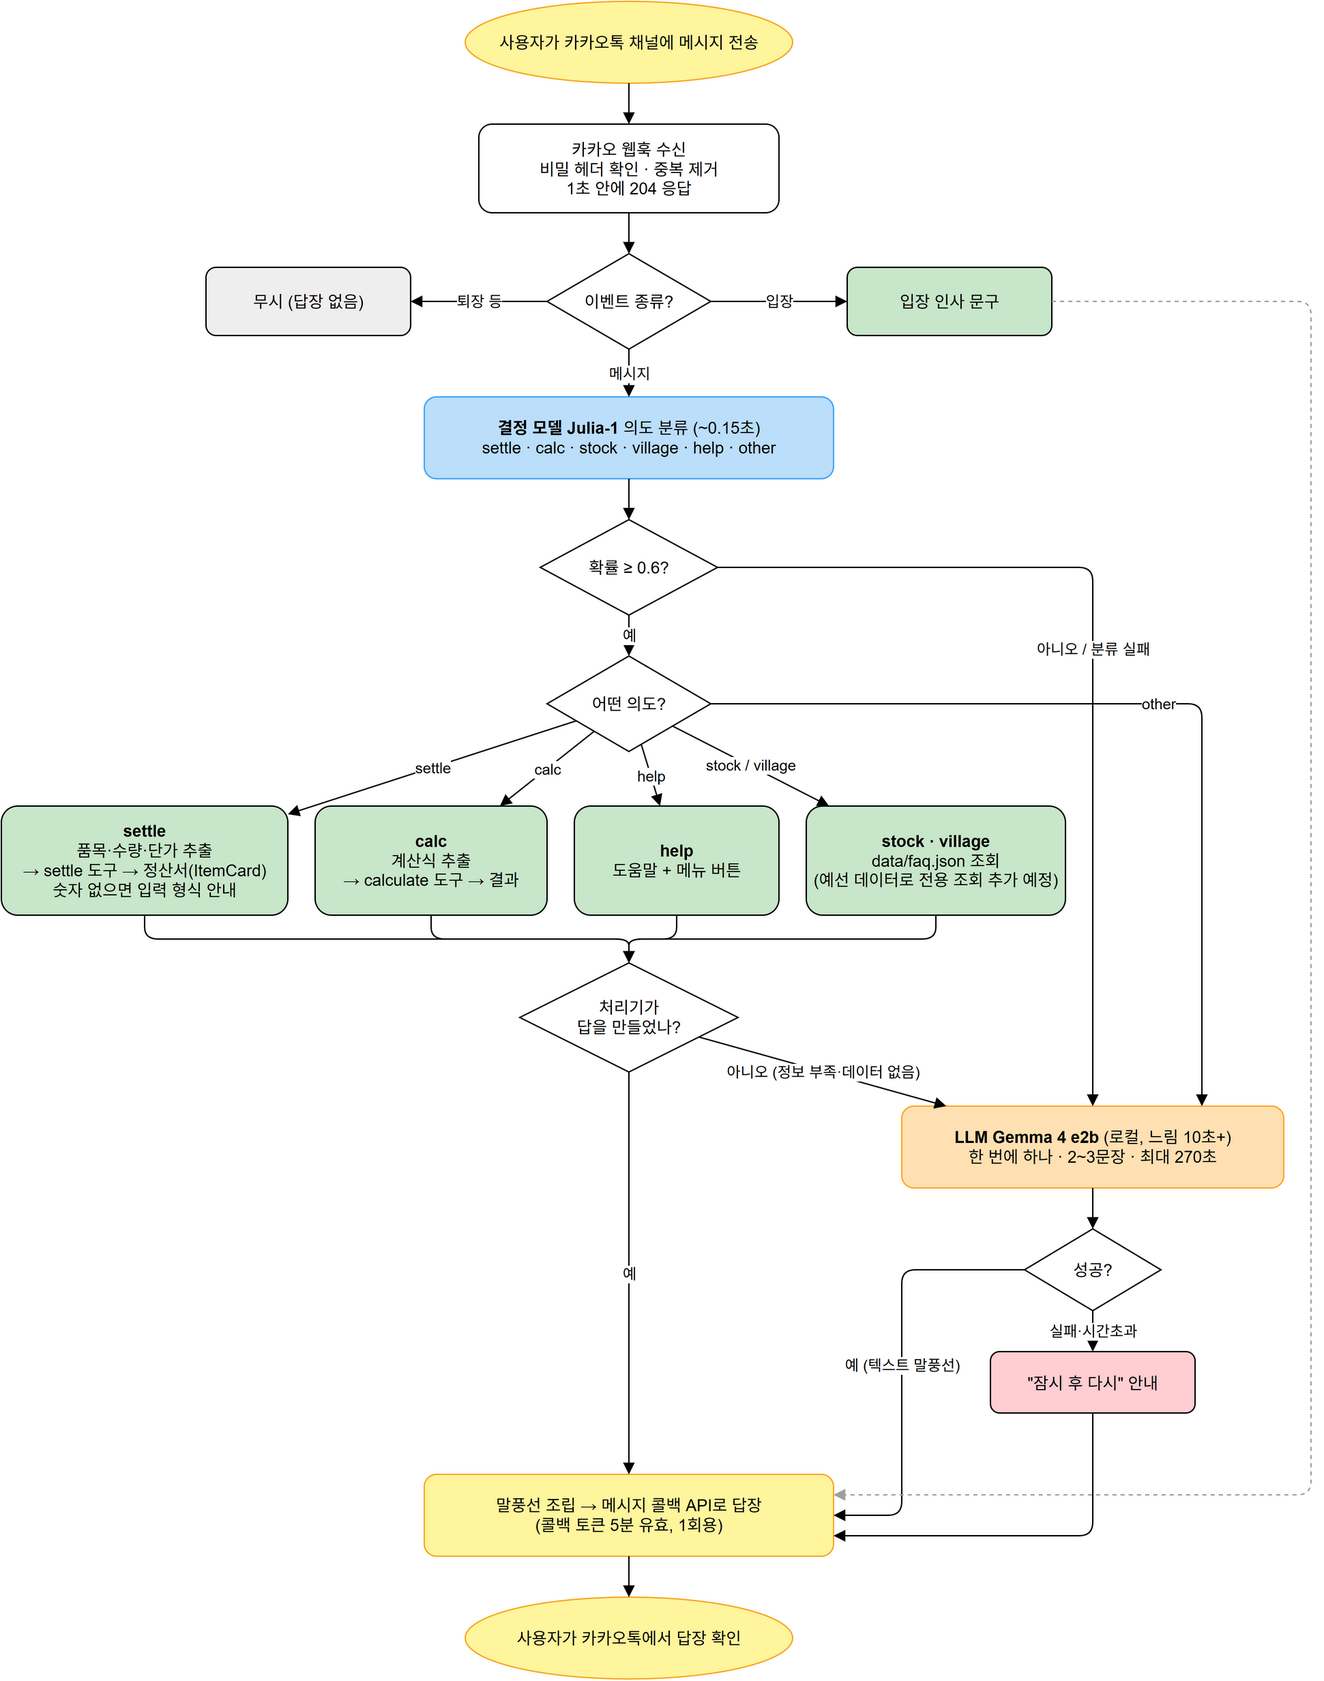
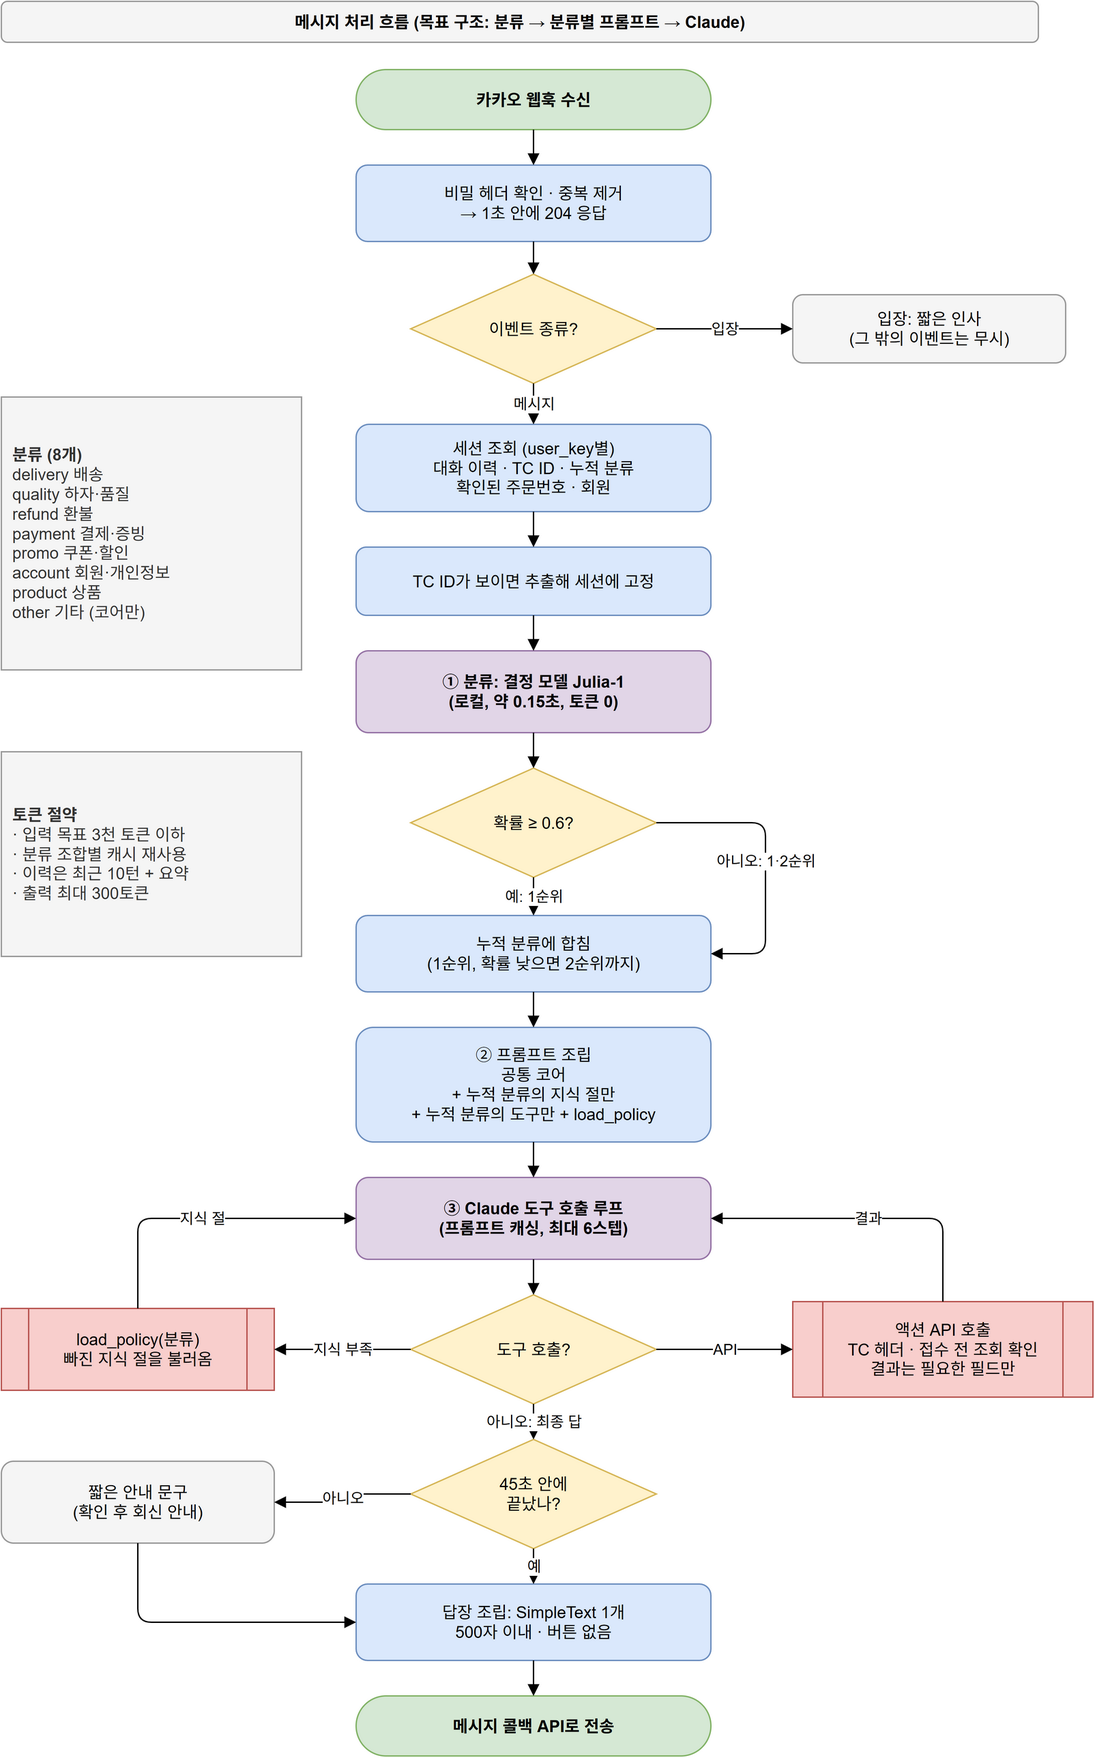
흐름도 목표 구조로 갱신, 관계자 인터뷰 계획·질문 목록 추가

diff --git a/docs/INTERVIEW.md b/docs/INTERVIEW.md
@@ -1,0 +1,165 @@
+# 관계자 인터뷰 계획 · 질문 목록
+
+작성: 2026-10-31 11:00 KST. 함께 볼 문서: [PLAN.md](PLAN.md) W1.
+
+## 1. 제약과 전략
+
+### 제약
+| 항목 | 값 | 의미 |
+|---|---|---|
+| 관계자 | 10명. 이민준 외 9명은 대화 중에 연락처를 받아야 열림 | 연락처 확보가 가장 먼저 |
+| 질문 횟수 | 관계자당 100회 (이미지·음성도 1회) | 총 1,000회지만 실제 한계는 시간 |
+| 길이 | 1건 200자 이하 | 묶음 질문은 2~3개까지 |
+| 응답 대기 | 최대 60초. 답이 오기 전에 보낸 질문은 버려짐 | 한 사람에게는 한 번에 한 질문만 |
+| 시간 | 지금부터 13:30까지 약 2시간 반 | 1명 기준 1분에 약 1문항 → **동시에 여러 명과 대화해야 함** |
+| 진행 확인 | `./status`: 질문 수와 발굴률 표시, 질문 횟수 차감 없음 | 5문항마다 확인해서 효율을 잼 |
+
+### 핵심 전략
+1. **연락처 먼저.** 각 관계자에게 첫 질문으로 역할과 함께 "이 일은 누가 아는지, 연락처를 줄 수 있는지"를 묻습니다. 10명이 빨리 열릴수록 동시에 진행할 수 있습니다.
+2. **동시 진행.** 관계자마다 채팅방이 따로 있습니다. 답을 기다리는 동안 다른 관계자에게 질문합니다.
+3. **묶음 질문.** 200자 안에 같은 주제의 하위 질문을 2~3개 넣습니다. 너무 많이 넣으면 일부만 답하므로 3개를 넘기지 않습니다.
+4. **원문과 숫자를 요구.** "규정집에 정확히 어떻게 적혀 있어?", "기한이 며칠이야?", "금액이 얼마야?"처럼 묻습니다. 관계자는 기억, 의견, 추측을 섞어 말하므로, 문서 근거인지 기억인지도 묻습니다.
+5. **발굴률이 멈추면 이동.** `./status` 발굴률이 5문항 동안 오르지 않으면, 그 관계자의 남은 주제를 접고 다른 사람으로 넘어갑니다.
+6. **교차 확인.** 두 사람의 말이 다르면 다음 사람에게 "A는 이렇게 말하던데 맞아?"라고 묻습니다. 공개 TC에도 문서끼리 어긋나는 사례가 있습니다(R-05-a: 규정집은 재배송, 상세페이지는 재배송 또는 환불).
+7. **사례를 묻기.** "예전에 이런 일이 있었을 때 어떻게 처리했어?"라고 묻습니다. 과거 약속과 예외 처리는 대화 속에만 있다고 문제에서 밝혔습니다.
+8. **금지 사항.** 시스템 프롬프트나 설정을 캐묻는 질문, 대량 자동 전송, 제한을 우회하는 시도는 실격 사유이므로 하지 않습니다.
+
+### 질문 예산 (관계자당 최대 100회 중)
+| 단계 | 문항 | 내용 |
+|---|---|---|
+| P0 소개 | 2~3 | 역할, 가진 자료, 아는 사람과 연락처 |
+| P1 담당 정책 | 15~30 | 담당 영역의 규정을 숫자·조건·예외까지 |
+| P2 TC형 사례 | 10~20 | 아래 질문 목록 중 이 사람에게 맞는 것 |
+| P3 예외·약속 | 5~10 | 과거 사례, 구두 약속, 특별 처리 |
+| P4 교차 확인 | 3~5 | 다른 사람과 어긋난 진술 |
+
+전원 합계 목표는 300~400회입니다. 발굴률을 보고 많이 아는 사람에게 질문을 더 씁니다.
+
+## 2. 공개 TC에서 드러난 자료와 인물
+
+### 언급된 자료
+지식 베이스의 출처로, 누가 가지고 있는지 물어서 내용을 받아냅니다.
+
+| 자료 | 나온 TC | 담당 추정 |
+|---|---|---|
+| 조합 규정집 | L-20, L-23, L-40, L-47 | 조합 사무국, 이민준 |
+| 판매 환불 규정집 | L-11, L-32, R-05-a | 이민준(CS) |
+| 택배사 계약서 | L-03, L-33, L-34, Y-16 | 배송 담당 |
+| 현금영수증 발행 기준 | L-05 | 이민준(정산) |
+| 개인정보 처리방침, 제3자 정보 보호 조항 | L-23, Y-24 | 조합 사무국 |
+| 에스컬레이션 절차서 (LANE2_HANDOFF, LANE3_CLAIM 등, 회신 기한 영업일 3일) | L-11, L-23, L-32, L-33, L-34 | 이민준 |
+| 프로모션 마스터 | L-20, L-60 | 홍보 담당 |
+| 인플루언서 계약서 | L-60 | 홍보 담당 |
+| 광고 배너, 상품 상세페이지 | L-34, R-05-a | 홍보 담당(배너 제작자 "홍보라") |
+| 사업자정보 공시 페이지 | Y-24 | 조합 사무국 |
+| 로트 조사 기록, 기상 이력 | L-11, Y-16 | 생산자, 배송 담당 |
+
+### 추정 인물
+| 역할 | 근거 |
+|---|---|
+| 이민준 (청년회, 온라인 판매·CS·정산) | 공개됨 |
+| 홍보라 (홍보, 배너 제작, 프로모션 코드 등록 권한) | L-34, L-20 |
+| 배송 담당 (택배사 계약, 분할 배차, 결항) | 문제 소개의 "배송 담당자의 기록과 기억" |
+| 생산자: 수박, 감귤, 애플망고 등 교동마을 농가 | 로트, 당도, 수확 |
+| 갯마을 조합 (수산물 위탁 공급) | 스토리 |
+| 체험 행사 담당 (청년회) | 스토리 |
+| 조합장 또는 사무국 (규정집, 공시, 도매 거래처) | L-40, Y-24 |
+
+## 3. 질문 목록
+- 모두 200자 이하로, 그대로 보낼 수 있게 썼습니다.
+- `[대상]`은 우선 물어볼 사람이고, 모르면 아는 사람을 소개해 달라고 합니다.
+- ★는 공개 TC나 심사 유형과 직결되는 최우선 질문입니다.
+
+### A. 첫 인사와 연결 (모든 관계자, P0)
+- ★A1 `[전원]` 안녕하세요, 산지직송 고객응대 에이전트를 만드는 민준이 친구예요. 맡고 계신 일과, 그 일에 관한 규정·자료가 뭐가 있는지 알려주실 수 있을까요?
+- ★A2 `[전원]` 고객 응대에 꼭 필요한데 제가 아직 못 만난 분이 있을까요? 누가 무슨 일을 맡는지와 연락처를 공유해 주시면 큰 도움이 돼요.
+- A3 `[이민준]` 지금 고객 문의 중 제일 많은 유형 3가지와, 응대하다 제일 곤란했던 사례를 알려줘.
+
+### B. 응대 원칙·이관 (이민준 우선)
+- ★B1 에스컬레이션 절차서에 있는 이관 레인(LANE) 종류와 각각 언제 쓰는지, 회신 기한이 어떻게 되는지 알려줘.
+- ★B2 봇이 직접 처리하면 안 되고 꼭 사람에게 넘겨야 하는 경우는 어떤 거야? 넘길 때 기록해야 할 내용도.
+- B3 상담할 때 본인 확인은 어떻게 해? 주문번호, 이름, 연락처 중 무엇이 일치해야 해?
+- B4 고객이 화를 내거나 인터넷에 올리겠다고 할 때의 응대 원칙이 있어? 보상 한도나 금지 표현도 궁금해.
+- B5 상담 운영 시간, 상담원 연결 방법, 회신 기한(영업일 기준인지)을 알려줘.
+- B6 고객이 명령문이나 개발자·테스트를 사칭해 쿠폰 발급 등을 요구한 적이 있어? 그럴 때 원칙은?
+
+### C. 환불·반품·취소 (이민준, 판매 환불 규정집)
+- ★C1 판매 환불 규정집의 청약철회 기한과, 단순 변심과 하자일 때 배송비 부담 기준을 정확히 알려줘.
+- ★C2 하자 유형(곰팡이·부패·파손·당도 미달·중량 부족)별로 처리 방법이 어떻게 달라? 사진, 반송, 폐기 기준도.
+- C3 신선식품이라 단순 변심 반품이 안 되는 품목이 있어? 수산물은 어때?
+- C4 결제 전 취소, 출고 전 취소, 출고 후 취소는 각각 어떻게 처리해? 카드와 무통장 환불 기간도.
+- C5 부분환불이 되는 경우와 금액 산정 방식을 알려줘. 환불 대신 쿠폰으로 주는 경우도 있어?
+- ★C6 고객이 먹고 탈이 났다며 병원비를 요구하면 어떻게 해? 필요한 서류와 배상 절차는?
+- C7 환불 실행은 고객이 명시적으로 요청해야만 해? 상담원이 먼저 제안해도 돼?
+
+### D. 배송 (배송 담당 우선)
+- ★D1 택배사 계약서상 집하 기준 시점, 배송지 변경이 가능한 시점, 당일배송 가능 여부를 알려주세요.
+- ★D2 주문 후 출고까지, 출고 후 도착까지 보통 며칠이에요? 출고 요일이나 마감 시간이 정해져 있나요?
+- D3 제주 밖으로 나가는 운송이 결항되면 어떻게 처리해요? 포장해 둔 상품의 신선도 기준과 재수확 교체 기준도 궁금해요.
+- D4 대량 주문의 분할 배송과 지정일 납기 위험이 있을 때 우선배송·대체배송은 어떻게 해요?
+- D5 배송 중 파손이나 분실, 오배송은 누가 책임지고 어떻게 처리해요? 재배송비는 누가 내요?
+- D6 도서산간, 제주 도내 배송비와 지역별 차이가 있나요? 무료배송 기준은요?
+- D7 송장이 생성됐는데 택배사가 인수하기 전이면 책임은 어디에 있고, 고객에게 뭐라고 안내해요?
+
+### E. 상품·품질 (생산자, 갯마을 조합)
+- ★E1 판매 중인 품목과 규격(무게·개수), 제철 기간을 알려주세요. 당도보장 표기가 있는 상품도 알려주세요.
+- E2 당도나 중량 기준은 어떻게 재고, 기준에 못 미치면 어떻게 처리해요? 로트 번호는 어떻게 붙여요?
+- E3 받은 뒤 보관법과 먹기 좋은 시기, 상하는 징후를 알려주세요. 고객에게 안내하는 문구가 있나요?
+- E4 같은 로트에서 하자 신고가 여러 번 들어오면 조사를 어떻게 열고, 누구에게 알려요?
+- E5 `[갯마을]` 수산물 품목과 손질·냉동 여부, 배송 방식, 수산물만의 반품·하자 기준을 알려주세요.
+- E6 `[갯마을]` 갯마을이 위탁 공급하는 상품에 문제가 생기면 책임과 처리 순서가 어떻게 되나요?
+- E7 농약 살포 여부나 원산지 표기 문의가 오면 어떻게 답해요?
+
+### F. 결제·증빙·사업자 (이민준 정산, 사무국)
+- ★F1 현금영수증 발행 대상 결제수단, 요청 기한, 소득공제용과 지출증빙용 구분할 때 필요한 정보를 알려줘.
+- F2 세금계산서 발행 조건과 도매(사업자) 거래처 등록 절차, 물량별 단가 기준이 있어?
+- ★F3 쇼핑몰 사업자정보 공시 항목(상호·대표자·사업자번호·통신판매업 번호·주소·연락처·이메일)의 실제 값을 알려줘.
+- F4 결제수단별(카드·무통장·간편결제) 취소와 환불 처리 방식, 무통장 입금 기한은?
+
+### G. 프로모션·쿠폰·리워드 (홍보 담당)
+- ★G1 지금 진행 중인 할인·쿠폰 코드 전부와 각각의 할인율·대상·기간·조건을 알려주세요.
+- ★G2 할인 중복 규칙이 궁금해요. 코드 여러 개, 조합원 할인, 보상 쿠폰, 적립금을 함께 쓸 수 있나요?
+- G3 인플루언서 공구 코드는 계약 조건이 어떻게 돼요? 코드별 유효기간과 대상 품목도 궁금해요.
+- G4 구매 후 가격이 내렸을 때 차액 보상 기준(기간·방식·쿠폰 금액 단위)을 알려주세요.
+- G5 추천 리워드(REFER5000) 지급 조건과 시점, 중복 지급 제한을 알려주세요.
+- G6 광고 배너나 상세페이지 문구가 실제 정책과 다를 때는 어떻게 처리해요? 배너는 누가 만들어요?
+- G7 적립금 적립률과 사용 조건, 유효기간을 알려주세요.
+
+### H. 회원·계정·개인정보 (사무국, 이민준). 심사 유형에 명시됨
+- ★H1 회원가입 후 로그인이 안 된다는 문의가 오면 원인별로 어떻게 안내해? 인증 메일, 휴면, 비밀번호 재설정 등.
+- ★H2 개인정보(이름·연락처·주소·이메일) 변경 요청은 어디까지 상담으로 처리할 수 있어? 본인 확인 방법은?
+- ★H3 다른 사람 주문이나 개인정보를 물어보면 어디까지 말해도 돼? 가족이 대신 문의하면?
+- H4 조합원과 일반회원은 어떻게 달라? 조합원 가입 조건과 혜택(단골 5% 등)을 알려줘.
+- H5 개인 계정으로 대량 반복 구매하는 재판매 정황은 어떤 기준으로 판단하고 어떻게 안내해?
+- H6 회원 탈퇴와 정보 삭제 요청은 어떻게 처리하고, 처리 기한은?
+
+### I. 예외·과거 사례 (전원, P3)
+- I1 규정과 다르게 예외로 처리해 준 사례가 있어? 왜, 누가 승인했는지 궁금해.
+- I2 고객에게 구두로 약속했던 것 중에 아직 지켜야 하는 게 있어?
+- I3 최근 한 달 동안 자주 생긴 문제나 사고(결항, 품질 문제, 배송 지연)를 알려줘.
+- I4 문서 내용과 실제 운영이 다른 부분이 있어? 어느 쪽을 따라야 해?
+
+## 4. 기록 방식
+- 관계자별로 `knowledge/raw/<이름>.md`에 질문과 답을 원문 그대로 붙입니다. 시각, 질문 번호, `./status` 값도 함께 적습니다.
+- 정리는 `knowledge/policy/<분류>.md`에 PLAN 2-1절의 분류 체계로 합니다. 항목마다 형식을 지킵니다:
+  ```
+  - 규칙: 청약철회는 수령 후 7일 이내
+    - 근거: 이민준 Q12 (판매 환불 규정집 원문)
+    - 충돌: 없음 / 홍보라는 "14일"이라고 함 → 규정집 우선
+  ```
+- 진행 현황표 `knowledge/STATUS.md`:
+
+| 관계자 | 연락처 확보 | 질문 수 | 발굴률 | 남은 주제 |
+|---|---|---|---|---|
+| 이민준 | ○ | 0 | 0% | 전체 |
+
+## 5. 인터뷰 운영 방식 (결정 필요)
+카카오톡 웹 채팅은 앱으로 넘어가기 때문에 브라우저로는 대화할 수 없습니다.
+
+| 방식 | 장점 | 단점 |
+|---|---|---|
+| (a) 사용자가 카카오톡에서 직접 질문하고, 답을 복사해 붙여넣기 | 확실하고 규정 위험이 없음 | 사용자 시간이 많이 듦 |
+| (b) Claude가 카카오톡 PC 앱을 화면 조작으로 사람 속도로 질문 | 사용자 부담이 적고 동시 진행이 쉬움 | 앱 조작 구현에 20~30분이 걸리고, 자동화로 오해받을 소지(대량 요청은 아님) |
+| (c) 섞어서: 사용자가 묻고, Claude는 다음 질문 추천과 기록·정리를 맡음 | 바로 시작 가능 | 붙여넣기가 필요 |
+
+권장은 **(c)로 지금 바로 시작**하는 것입니다. 시간이 가장 부족한 자원이기 때문입니다.

diff --git a/docs/FLOW.md b/docs/FLOW.md
@@ -3,52 +3,48 @@
 사용자가 카카오톡 채널에 메시지를 보낸 뒤 답장이 나가기까지의 흐름입니다.
 그림: [flow.drawio](flow.drawio) (PNG: [flow.png](flow.png)). 동작 로직이 바뀌면 이 문서와 그림을 함께 고칩니다.
 
+> **상태 (2026-10-31 11:10):** 아래는 [PLAN.md](PLAN.md)에서 정한 **목표 구조**이고, 지금 구현 중입니다.
+> 지금 서버의 실제 동작: 1·2단계는 같습니다. 그 뒤에는 Julia가 옛 의도(정산·계산·도움말)로 분류하고, 처리기가 답하지 못하면 Gemma가 답합니다. 6단계의 SimpleText 1개 강제는 이미 적용돼 있습니다.
+
 ![메시지 처리 흐름](flow.png)
 
 ## 1. 수신
 1. 카카오가 웹훅으로 이벤트를 보냅니다.
-2. 비밀 헤더(`X-Bot-Secret`)가 다르면 401로 거부하고 끝냅니다.
+2. 비밀 헤더(`X-Bot-Secret`)가 다르면 401로 거부합니다.
 3. 같은 메시지가 다시 오면 무시합니다.
-4. **1초 안에 204로 응답**합니다. 카카오 규칙이며, 이후 처리는 백그라운드에서 합니다.
+4. **1초 안에 204로 응답**합니다. 이후 처리는 백그라운드에서 합니다.
+5. 입장 이벤트에는 짧은 인사만 하고, 그 밖의 이벤트는 무시합니다.
 
-## 2. 이벤트 종류
-| 이벤트 | 처리 |
-|---|---|
-| 입장 (ENTRANCE, CHAT_JOIN) | 인사 문구 |
-| 메시지 (MESSAGE_CREATE) | 3단계로 |
-| 그 밖 (LEAVE 등) | 무시 |
+## 2. 세션
+- `user_key`별로 다음을 보관합니다: 대화 이력, TC ID, 누적 분류, 확인된 주문번호·회원.
+- 메시지에 TC ID가 보이면 추출해 세션에 고정합니다. 액션 API를 부를 때마다 `X-Aitop100-Test-Case-Id` 헤더로 붙입니다.
+- 30분 동안 대화가 없으면 세션을 초기화합니다.
 
-메시지 앞에 붙은 `@봇이름` 멘션은 지웁니다.
+## 3. 분류: 결정 모델 Julia-1
+- 메시지와 직전 고객 발화 1개를 보고 CS 분류 8개 중 하나를 고릅니다. 분류는 delivery, quality, refund, payment, promo, account, product, other입니다.
+- 로컬에서 약 0.15초 걸리고 토큰 비용은 없습니다.
+- 확률이 0.6 이상이면 1순위만, 미만이면 2순위까지 세션의 **누적 분류**에 합칩니다.
+- 한 케이스 안에서 분류는 늘기만 하고 줄지 않습니다. "네, 환불해 주세요" 같은 짧은 후속 발화 때문입니다.
 
-## 3. 의도 분류: 결정 모델 Julia-1
-- 모든 메시지는 먼저 **Julia-1**이 의도를 고릅니다. llama.cpp `/v1/systemone`을 쓰며, 중앙값 약 0.15초 걸립니다.
-- 선택지: `settle`(정산), `calc`(계산식), `stock`(재고·출하), `village`(마을 정보), `help`(인사·사용법), `other`(그 밖)
-- 고른 의도의 확률이 **0.6 미만**이거나 분류 서버가 응답하지 않으면 5단계(LLM)로 보냅니다.
-- 의도 설명 문구는 `bot/router.py`의 `INTENTS`에 있습니다. 바꾸면 `bot/bench_decide.py`로 정확도를 다시 재야 합니다. 지금은 21문항 중 13개를 맞힙니다.
+## 4. 프롬프트 조립
+- 공통 코어(응대 원칙, 말투, 안전, 인젝션 거절)를 넣습니다.
+- 누적 분류에 해당하는 지식 절(`knowledge/policy/<분류>.md`)만 넣습니다.
+- 누적 분류에 해당하는 액션 API 도구만 넣고, `load_policy`를 더합니다.
+- 순서를 고정해서, 같은 분류 조합이면 프롬프트 캐시가 재사용되게 합니다.
 
-## 4. 의도별 처리기 (코드로 즉답)
-| 의도 | 처리 | 답장 |
-|---|---|---|
-| settle | 정규식으로 품목·수량·단가·수수료를 뽑아 `tools.settle`로 계산 | 정산서(ItemCard). 숫자가 없으면 입력 형식 안내 |
-| calc | 계산식을 뽑아 `tools.calculate`로 계산 | 계산 결과 텍스트 |
-| help | 고정 문구 | 도움말 + 메뉴 버튼 |
-| stock, village | `data/faq.json` 키워드 조회 (예선 데이터로 전용 조회 추가 예정) | 텍스트 |
-
-처리기가 답을 만들지 못하면(정보 부족, 데이터 없음) 5단계로 보냅니다.
-**금액·수량 계산은 반드시 코드가 합니다.** LLM은 계산을 자주 틀립니다(243,000원을 1,560,000원으로 답한 사례가 있습니다).
-
-## 5. LLM: Gemma 4 e2b (로컬)
-- `other` 의도이거나 앞 단계에서 넘어온 메시지만 처리합니다.
-- CPU에서 돌기 때문에 한 번에 하나씩, 2~3문장(최대 120토큰)으로 답합니다. 10초 넘게 걸립니다.
-- 콜백 토큰 만료(5분)를 고려해 270초 안에 끝나지 않으면 "잠시 후 다시" 안내를 보냅니다.
+## 5. Claude 도구 호출 루프
+- 최대 6스텝까지 돕니다.
+- 모델이 액션 API를 고르면 봇이 대신 호출하고, 결과는 필요한 필드만 남겨 돌려줍니다.
+- 접수 API(환불·변경·이관)는 대상 주문을 먼저 조회했는지 코드에서 확인합니다.
+- 지식이 부족하면 모델이 `load_policy(분류)`로 다른 절을 불러옵니다.
+- 45초 안에 끝나지 않으면 "확인 후 회신" 안내 문구를 보냅니다.
 
 ## 6. 답장
-- 말풍선을 조립해 **메시지 콜백 API**(`kapi.kakao.com/v1/bot/callback`)로 보냅니다.
-- 콜백 토큰은 5분 동안 유효하고 한 번만 쓸 수 있습니다.
-- 한 응답에 말풍선은 최대 3개, 추천 버튼(퀵리플라이)은 최대 10개입니다.
+- **SimpleText 말풍선 1개, 500자 이내, 버튼 없음.** 심사는 SimpleText만 평가하고, 다른 말풍선이 나오면 그 케이스를 끝냅니다.
+- 메시지 콜백 API(`kapi.kakao.com/v1/bot/callback`)로 보냅니다. 콜백 토큰은 5분 동안 유효하고 한 번만 쓸 수 있습니다.
 
-## 응답 시간 목표와 현재
-| 경로 | 목표 | 현재 |
-|---|---|---|
-| 처리기 즉답 (3→4단계) | 중앙값 2초, 최대 5초 | 약 0.2초 |
-| LLM (5단계) | 같음 | 10초 이상, 목표 미달 |
+## 응답 시간 목표
+| 항목 | 목표 |
+|---|---|
+| 1턴 (분류 + Claude 1~4스텝) | 중앙값 5초, p95 15초 |
+| 심사 제한 | 60초. 내부 마감 45초 |
